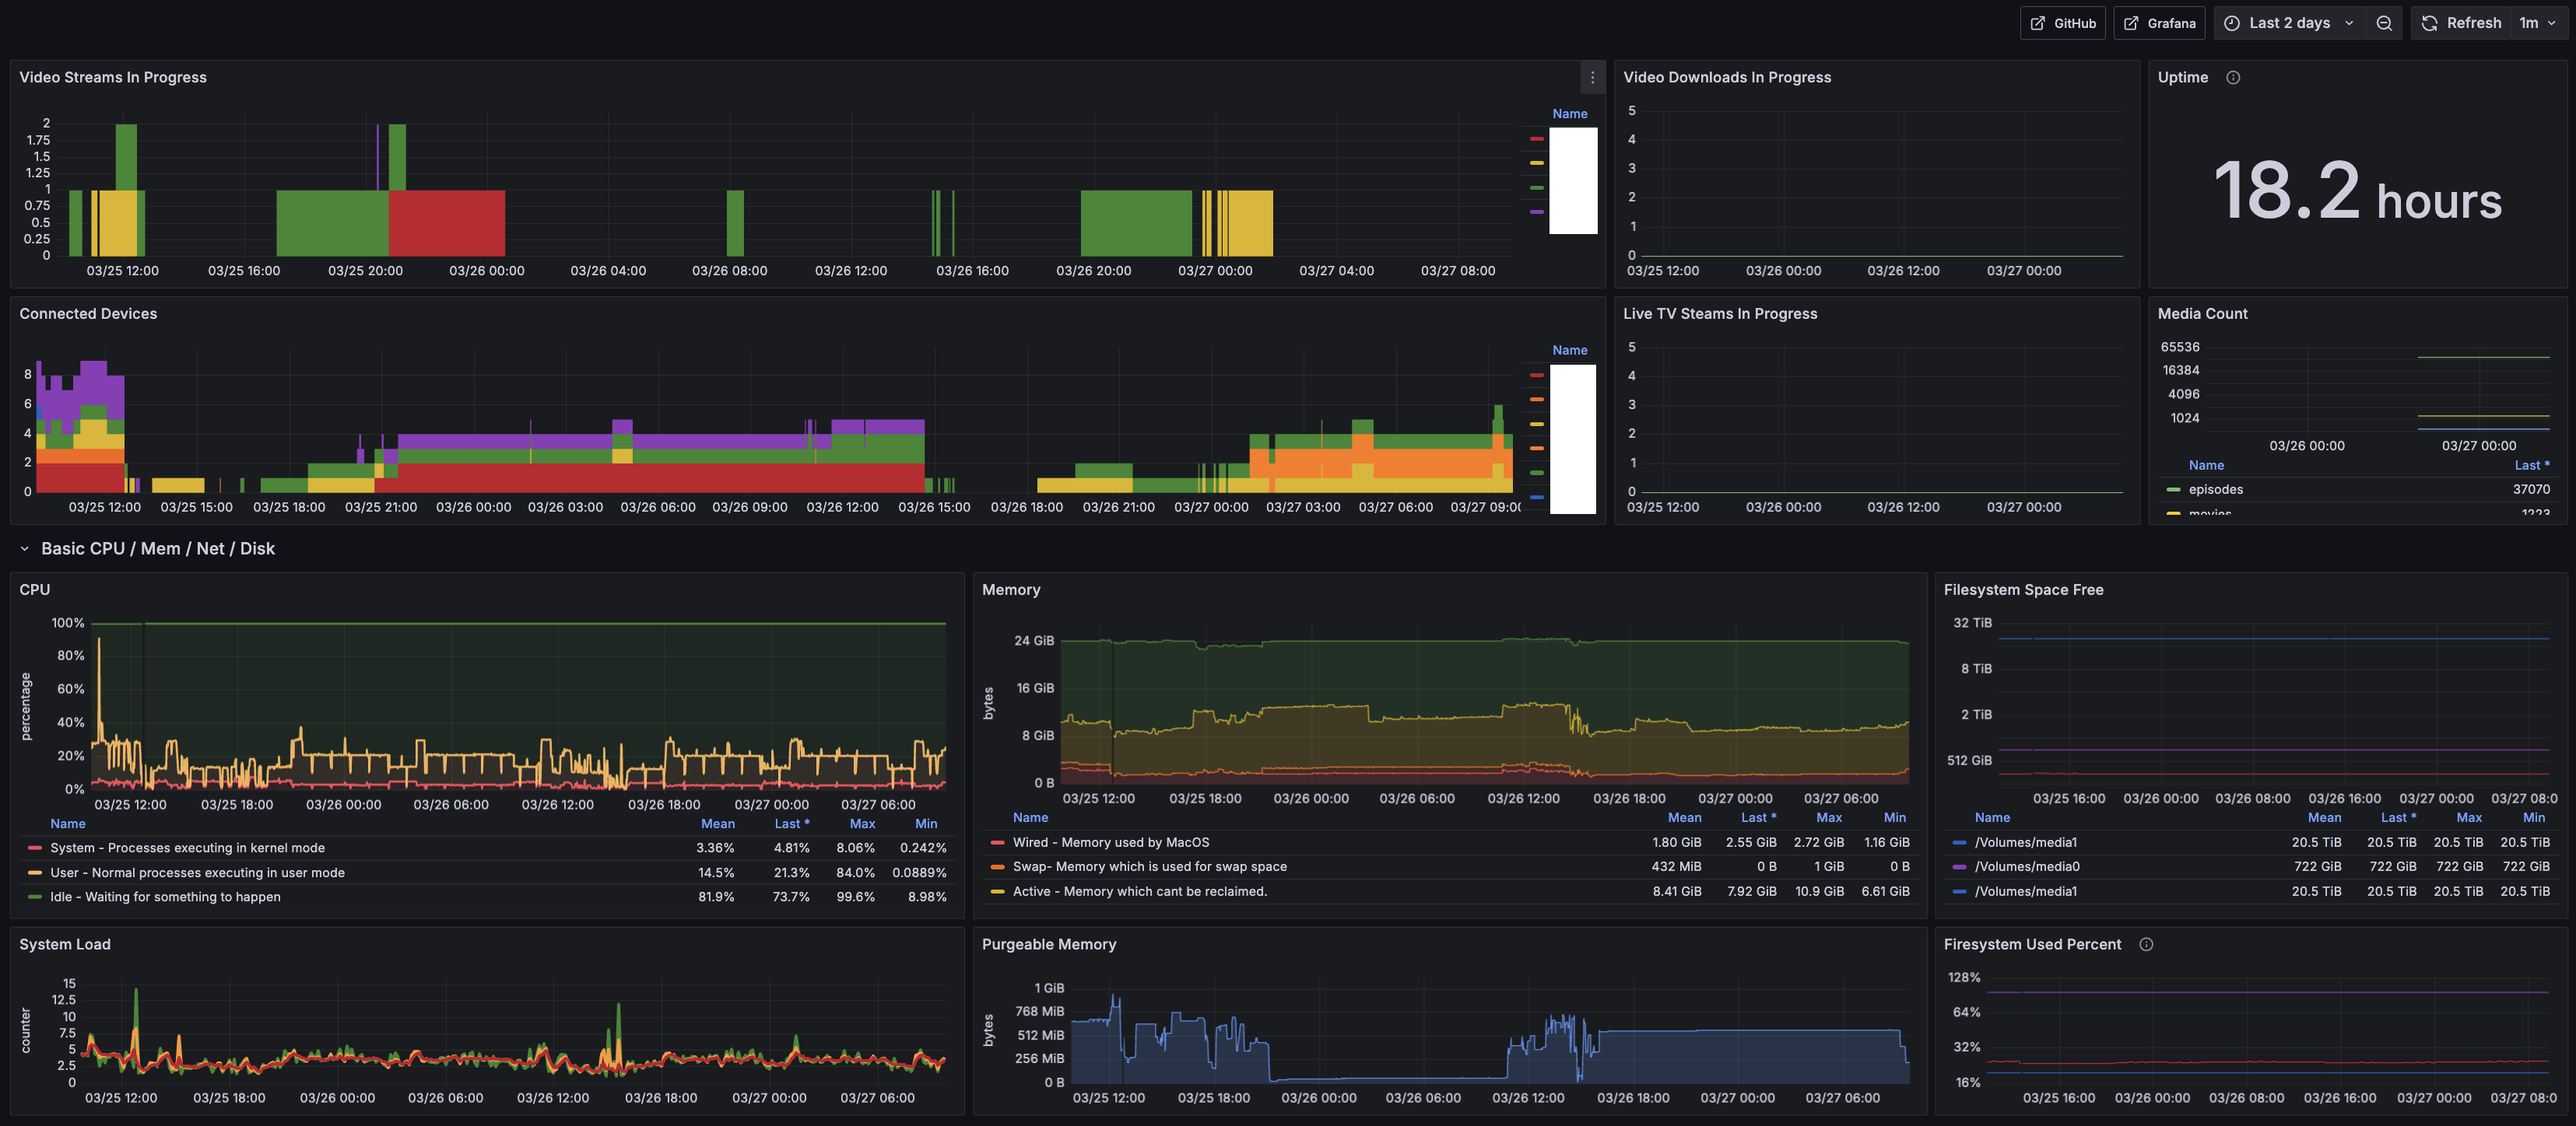
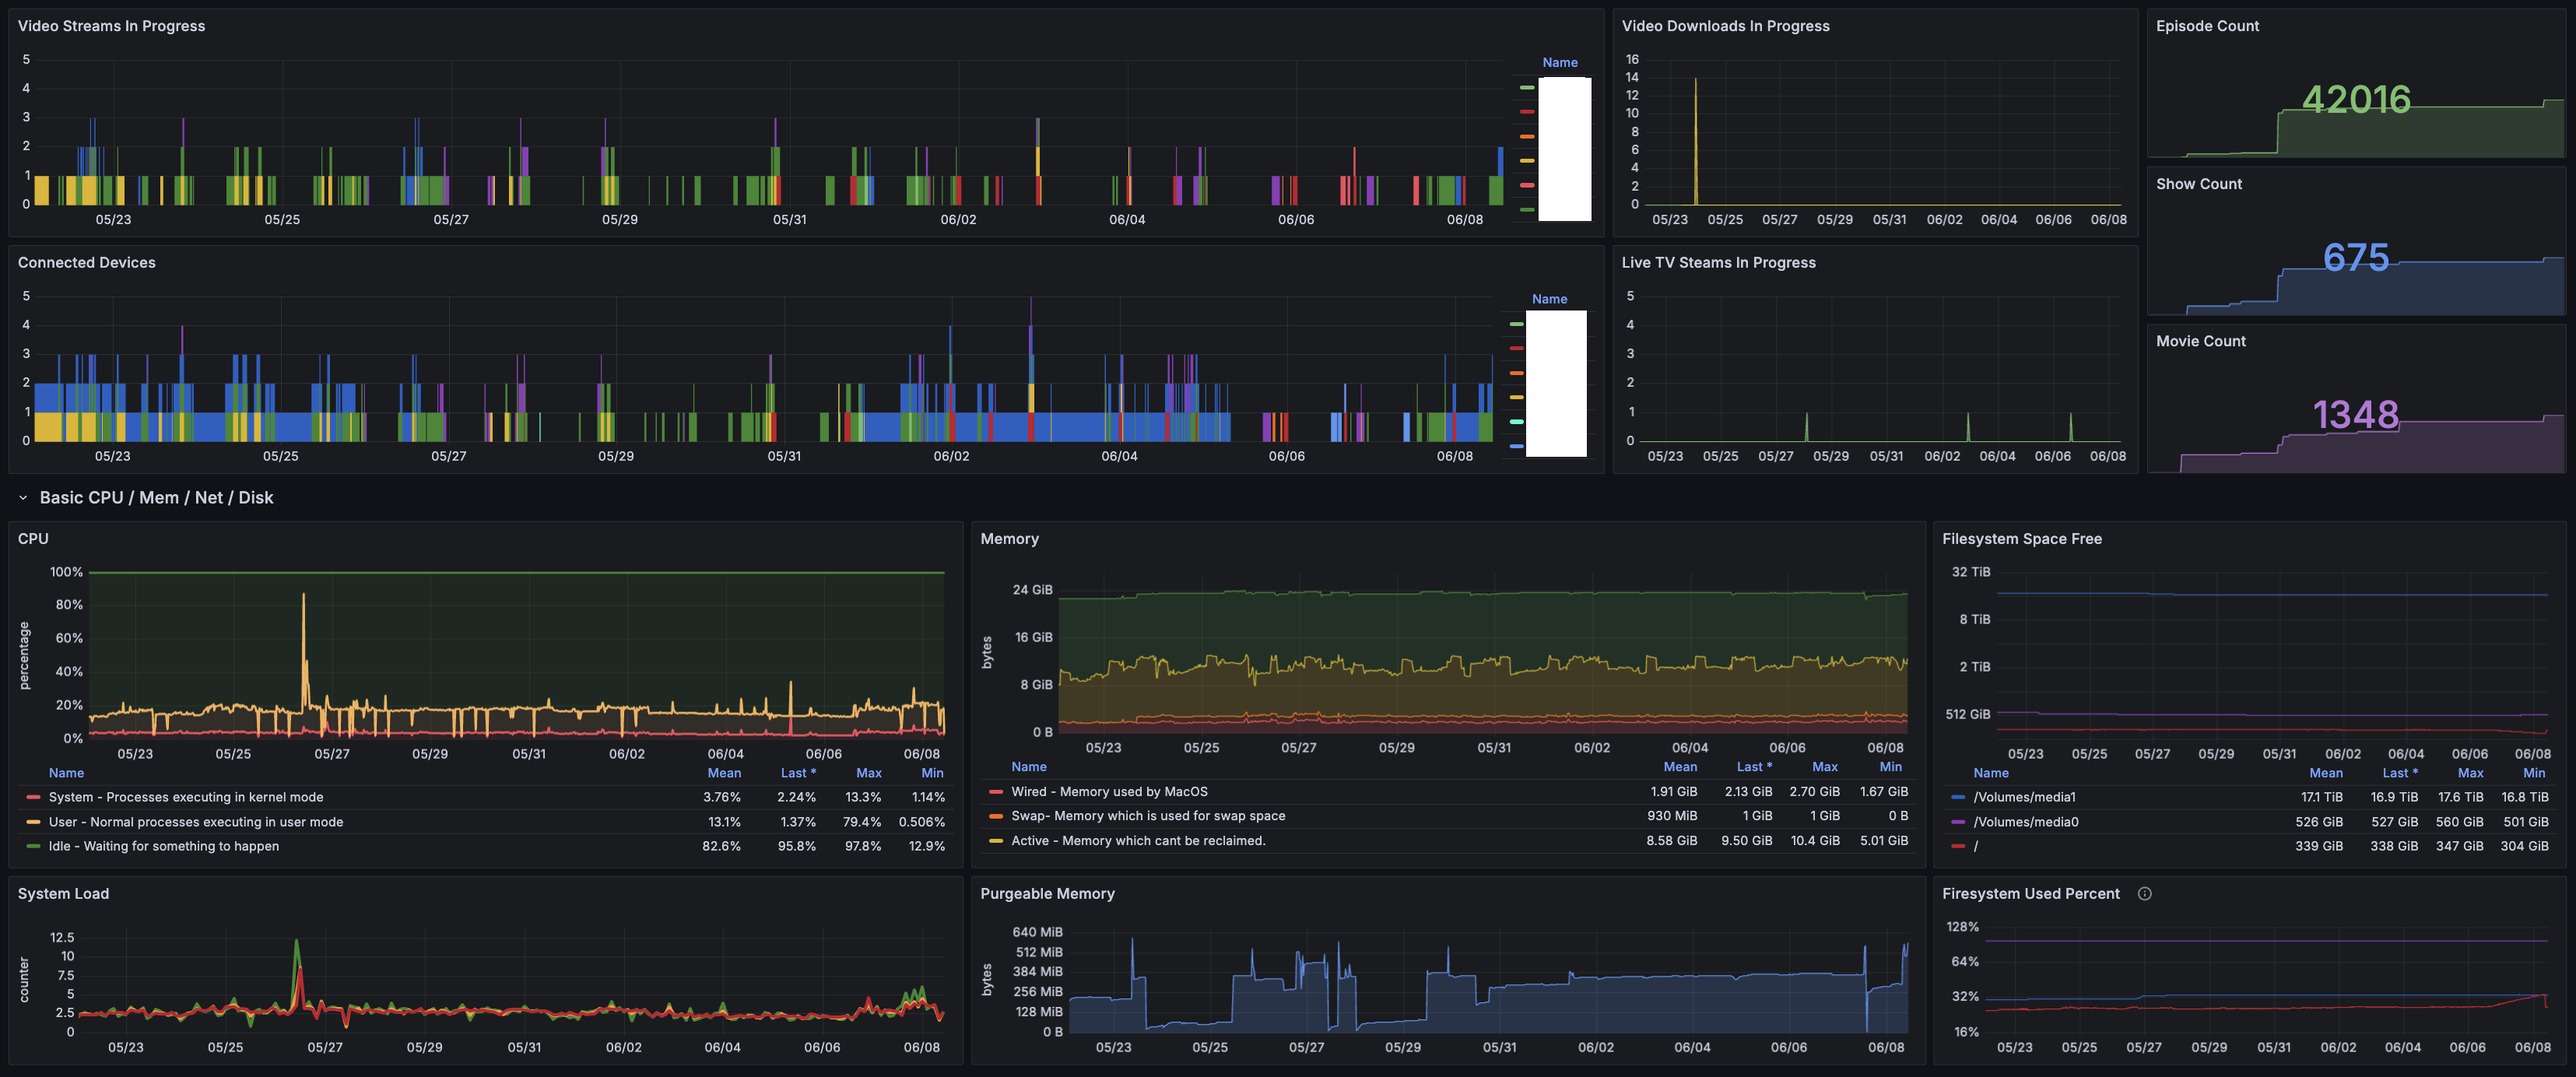
Update dashboard for better media count displays (#10)
Update dashboard for better media count displays

diff --git a/CHANGELOG.md b/CHANGELOG.md
@@ -1,6 +1,16 @@
 # Change Log
 All notable changes to this project will be documented in this file.
 
+## 2025-06-08
+### Added
+* Three new charts on the grafana dashboard to better show the growth of movies, shows, and episodes over time.
+### Updated
+* `Video Streams In Progress` and `Connected Devices` charts to ensure equal spacing for each value in the count, 
+  enhancing visual clarity and consistency across various connection counts.
+* `Video Downloads In Progress` and `Live TV Steams In Progress` to display a minimum of zero when no data is found.
+### Removed
+* Uptime chart on dashboard to make room for new charts.
+
 ## 2025-04-12 (PM)
 ### Updated
 * Added Geo Filtering section.
